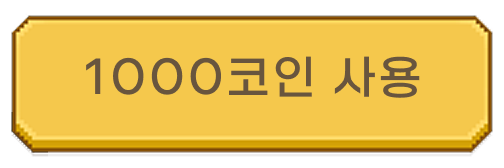
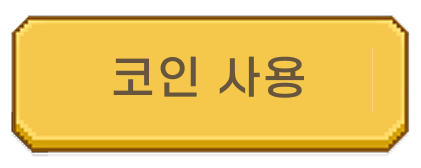
style : 농장 확장 모달 버튼 변경
- 취소 및 코인 사용 버튼 에셋 교체
- 버튼 크기를 디자인 규격에 맞게 조정

Changed region(s): [[0.1544, 0.3274, 0.8337, 0.5952], [0.0, 0.0893, 0.1235, 0.9226], [0.8955, 0.0893, 0.9881, 0.9226]]

diff --git a/src/features/unlock-farm-area/ui/FarmExpansionModal.tsx b/src/features/unlock-farm-area/ui/FarmExpansionModal.tsx
@@ -19,7 +19,7 @@ const TEXT_WIDTH = scaleByDeviceWidth(191);
 const TEXT_HEIGHT = scaleByDeviceWidth(86);
 const TEXT_TOP = scaleByDeviceWidth(30);
 const TEXT_BUTTON_GAP = scaleByDeviceWidth(16);
-const BUTTON_WIDTH = scaleByDeviceWidth(126);
+const BUTTON_WIDTH = scaleByDeviceWidth(105.15);
 const BUTTON_HEIGHT = scaleByDeviceWidth(42);
 
 type FarmExpansionModalProps = {
